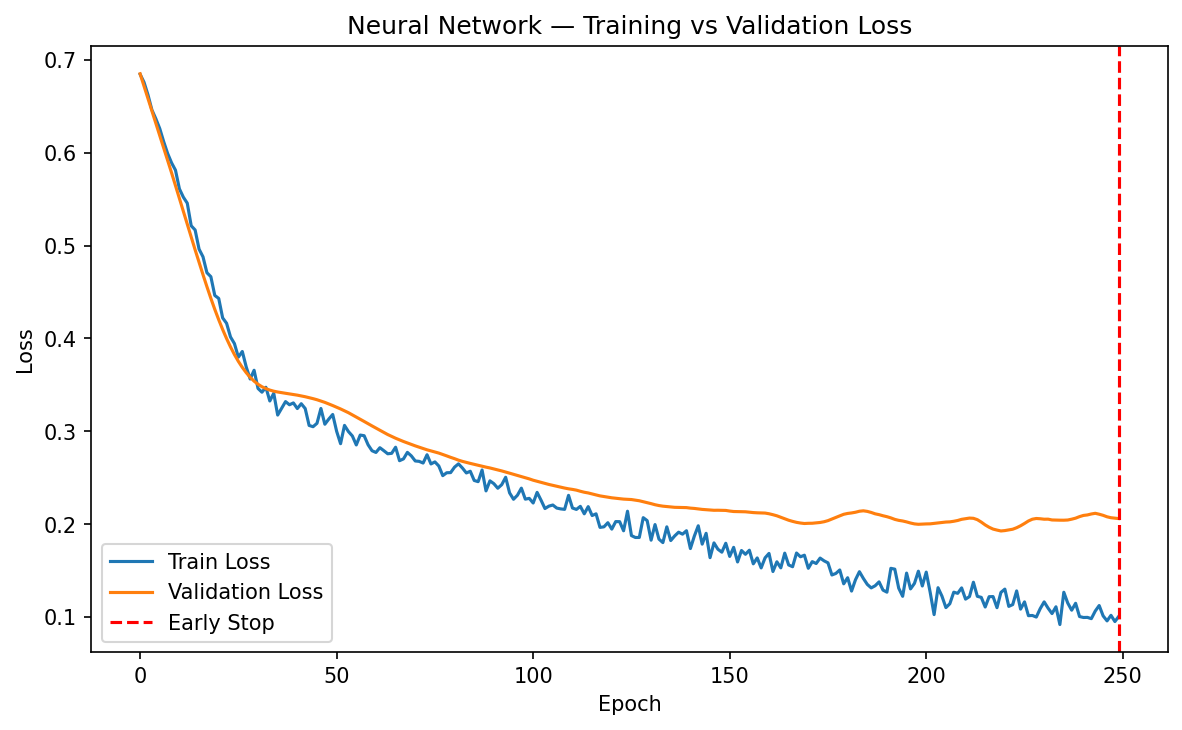
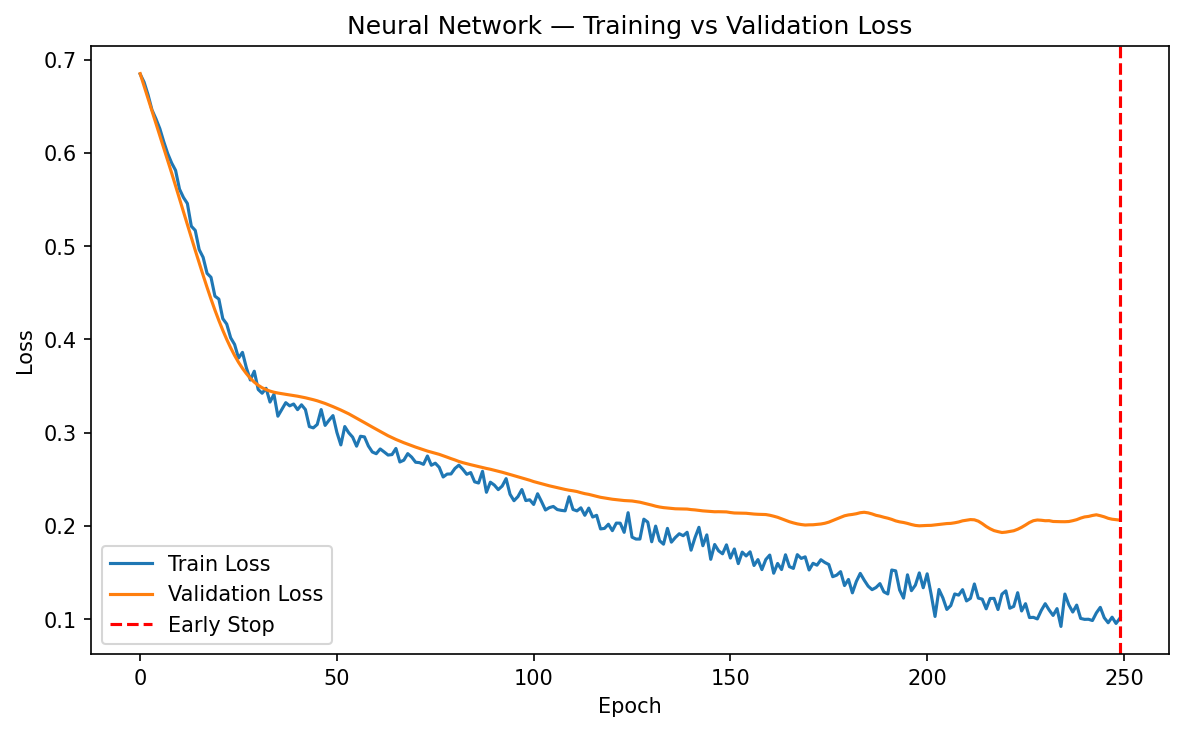
Fix early stopping so it restores the best neural network weights

diff --git a/NeuralNet/neural_network.py b/NeuralNet/neural_network.py
@@ -1,3 +1,4 @@
+import copy
 import sys
 from pathlib import Path
 
@@ -78,7 +79,7 @@ def train_fold(
         if val_loss < best_val_loss:
             best_val_loss    = val_loss
             patience_counter = 0
-            best_state       = model.state_dict()
+            best_state       = copy.deepcopy(model.state_dict())
         else:
             patience_counter += 1
 

diff --git a/README.md b/README.md
@@ -37,7 +37,7 @@ All tabular models use a stratified 80/20 train/test split with 5-fold cross-val
 | Random Forest | Amyloid | 0.837 ± 0.081 | 0.966 | 92.0% |
 | Random Forest | Tau | 0.863 ± 0.070 | 0.987 | 97.3% |
 | Random Forest | Combined | 0.864 ± 0.071 | 0.980 | 94.7% |
-| Neural Network | Combined | 0.894 ± 0.060 | 0.997 | 96.0% |
+| Neural Network | Combined | 0.877 ± 0.096 | 0.993 | 96.0% |
 | Longitudinal LR | Baseline tau | 0.797 ± 0.167 | 0.875 | 81.3% |
 | Longitudinal LR | Tau slope | 0.698 ± 0.176 | 0.708 | 81.3% |
 | Longitudinal LR | Baseline + slope | 0.814 ± 0.128 | 0.854 | 81.3% |
